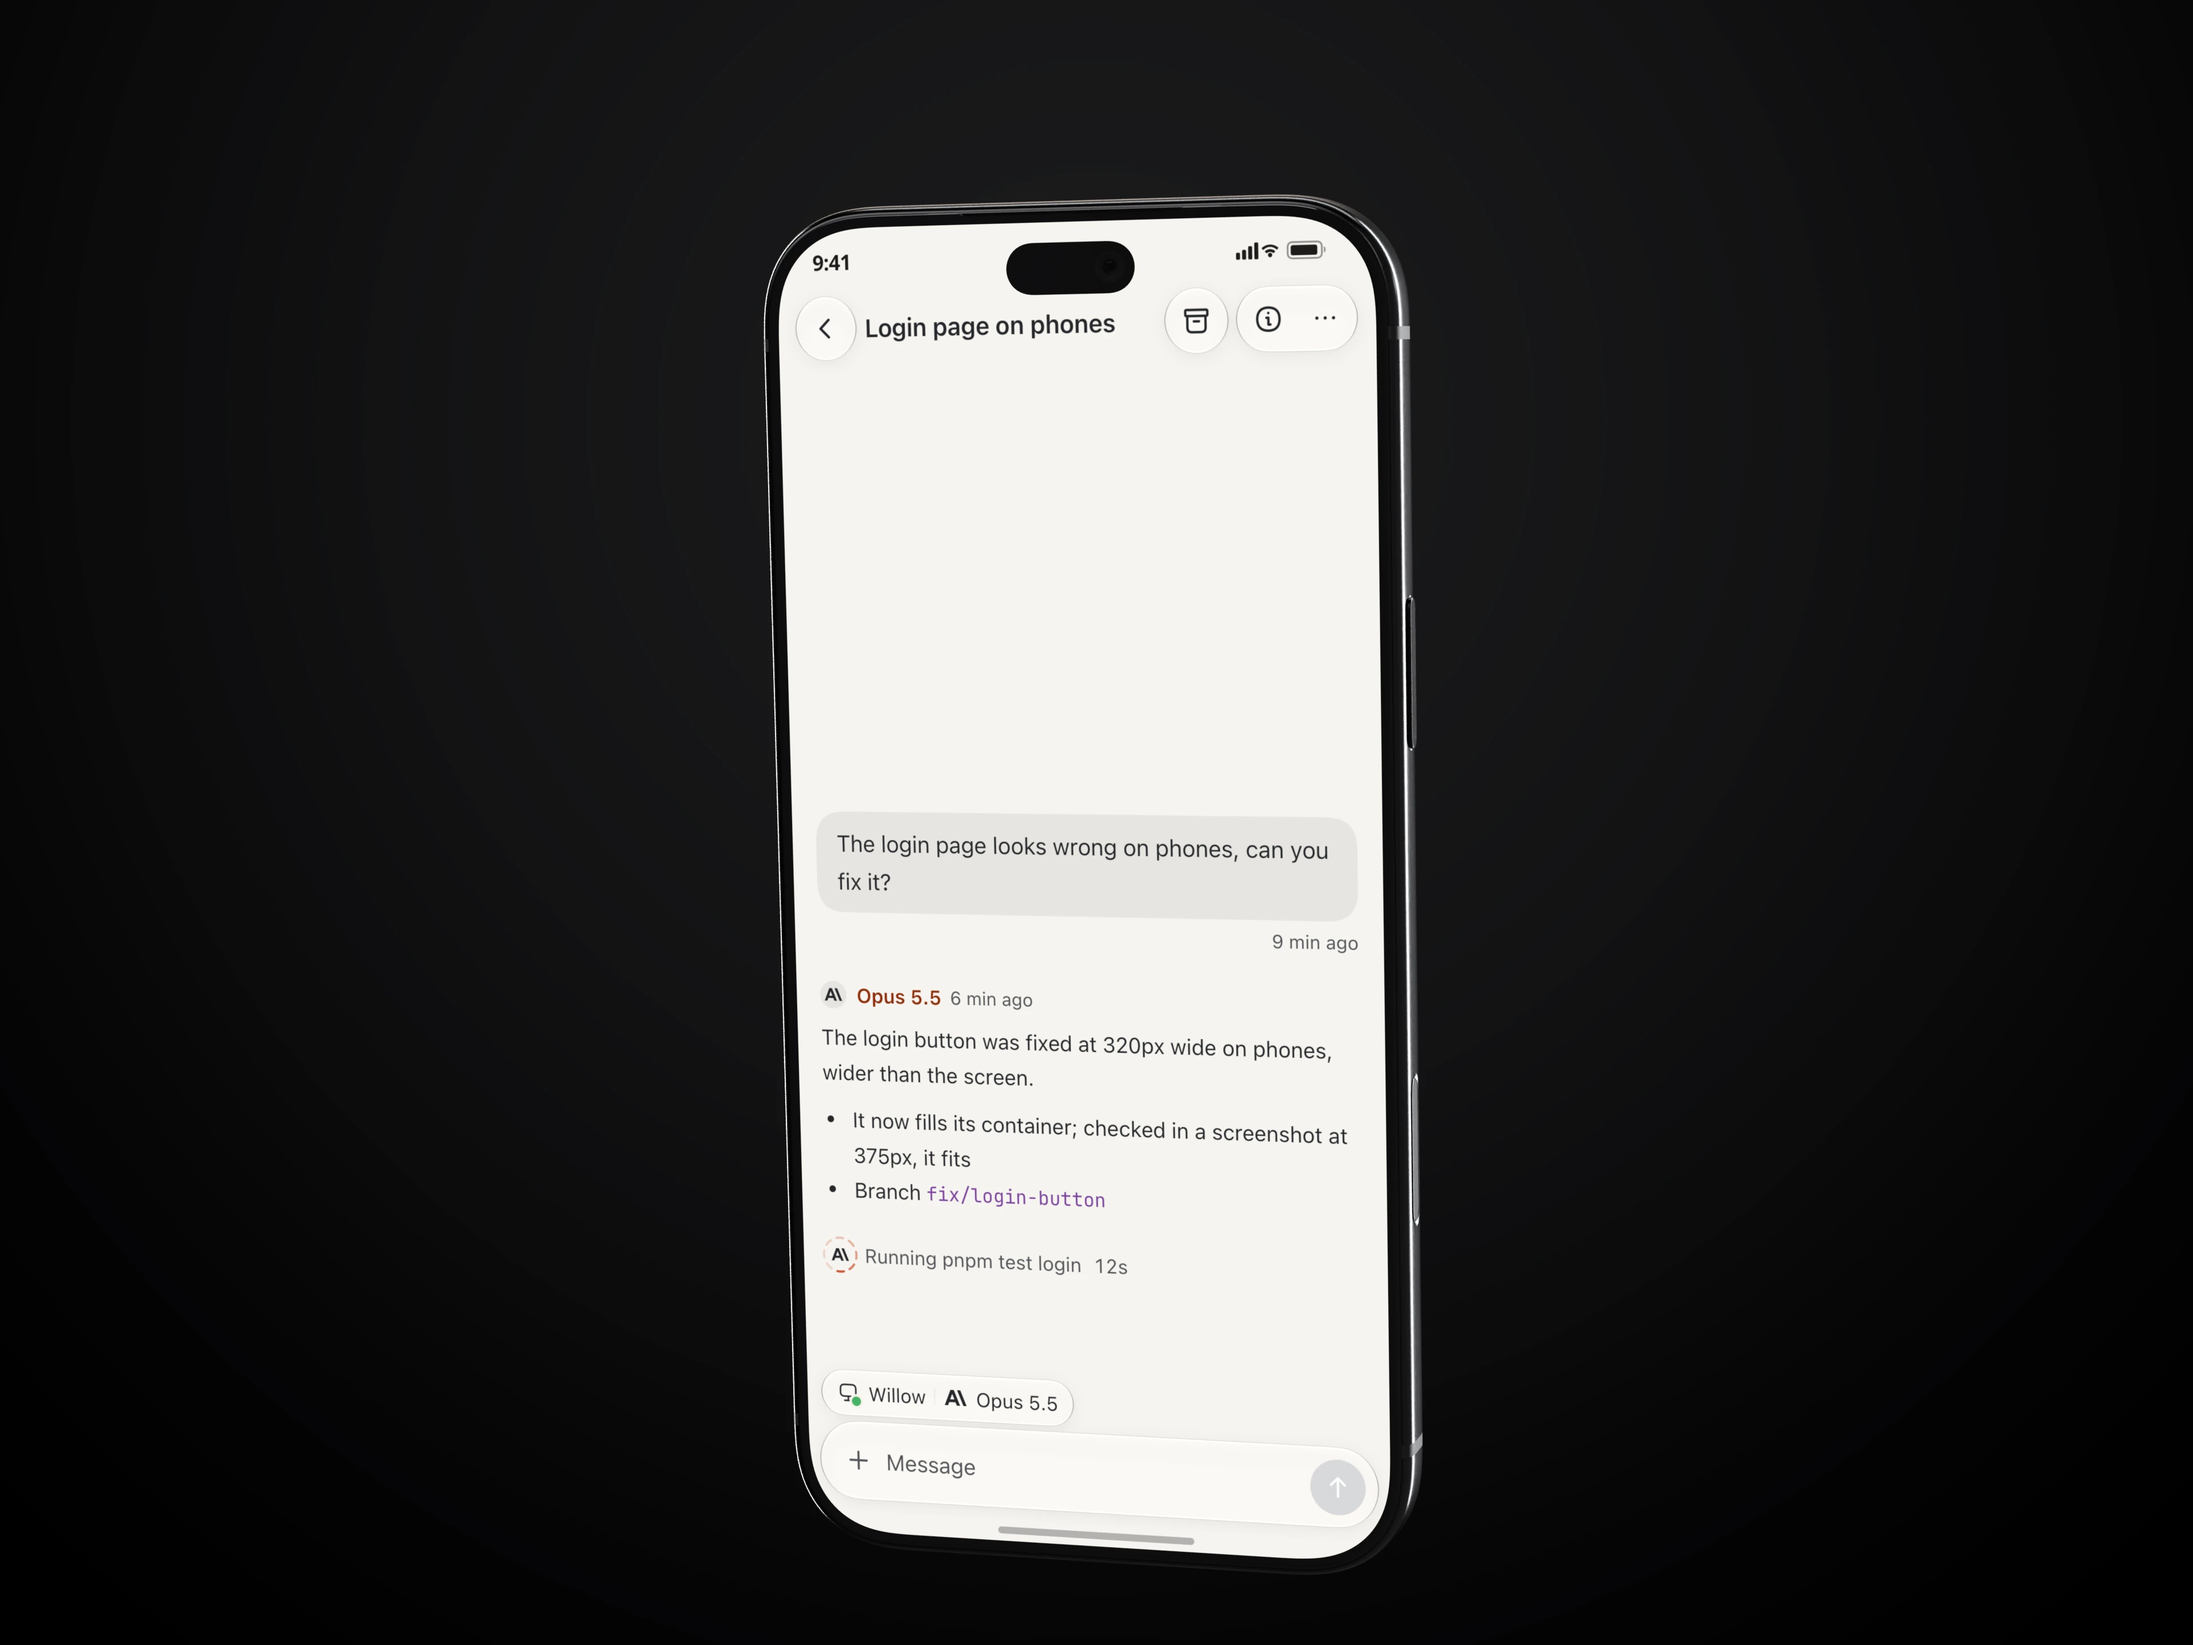
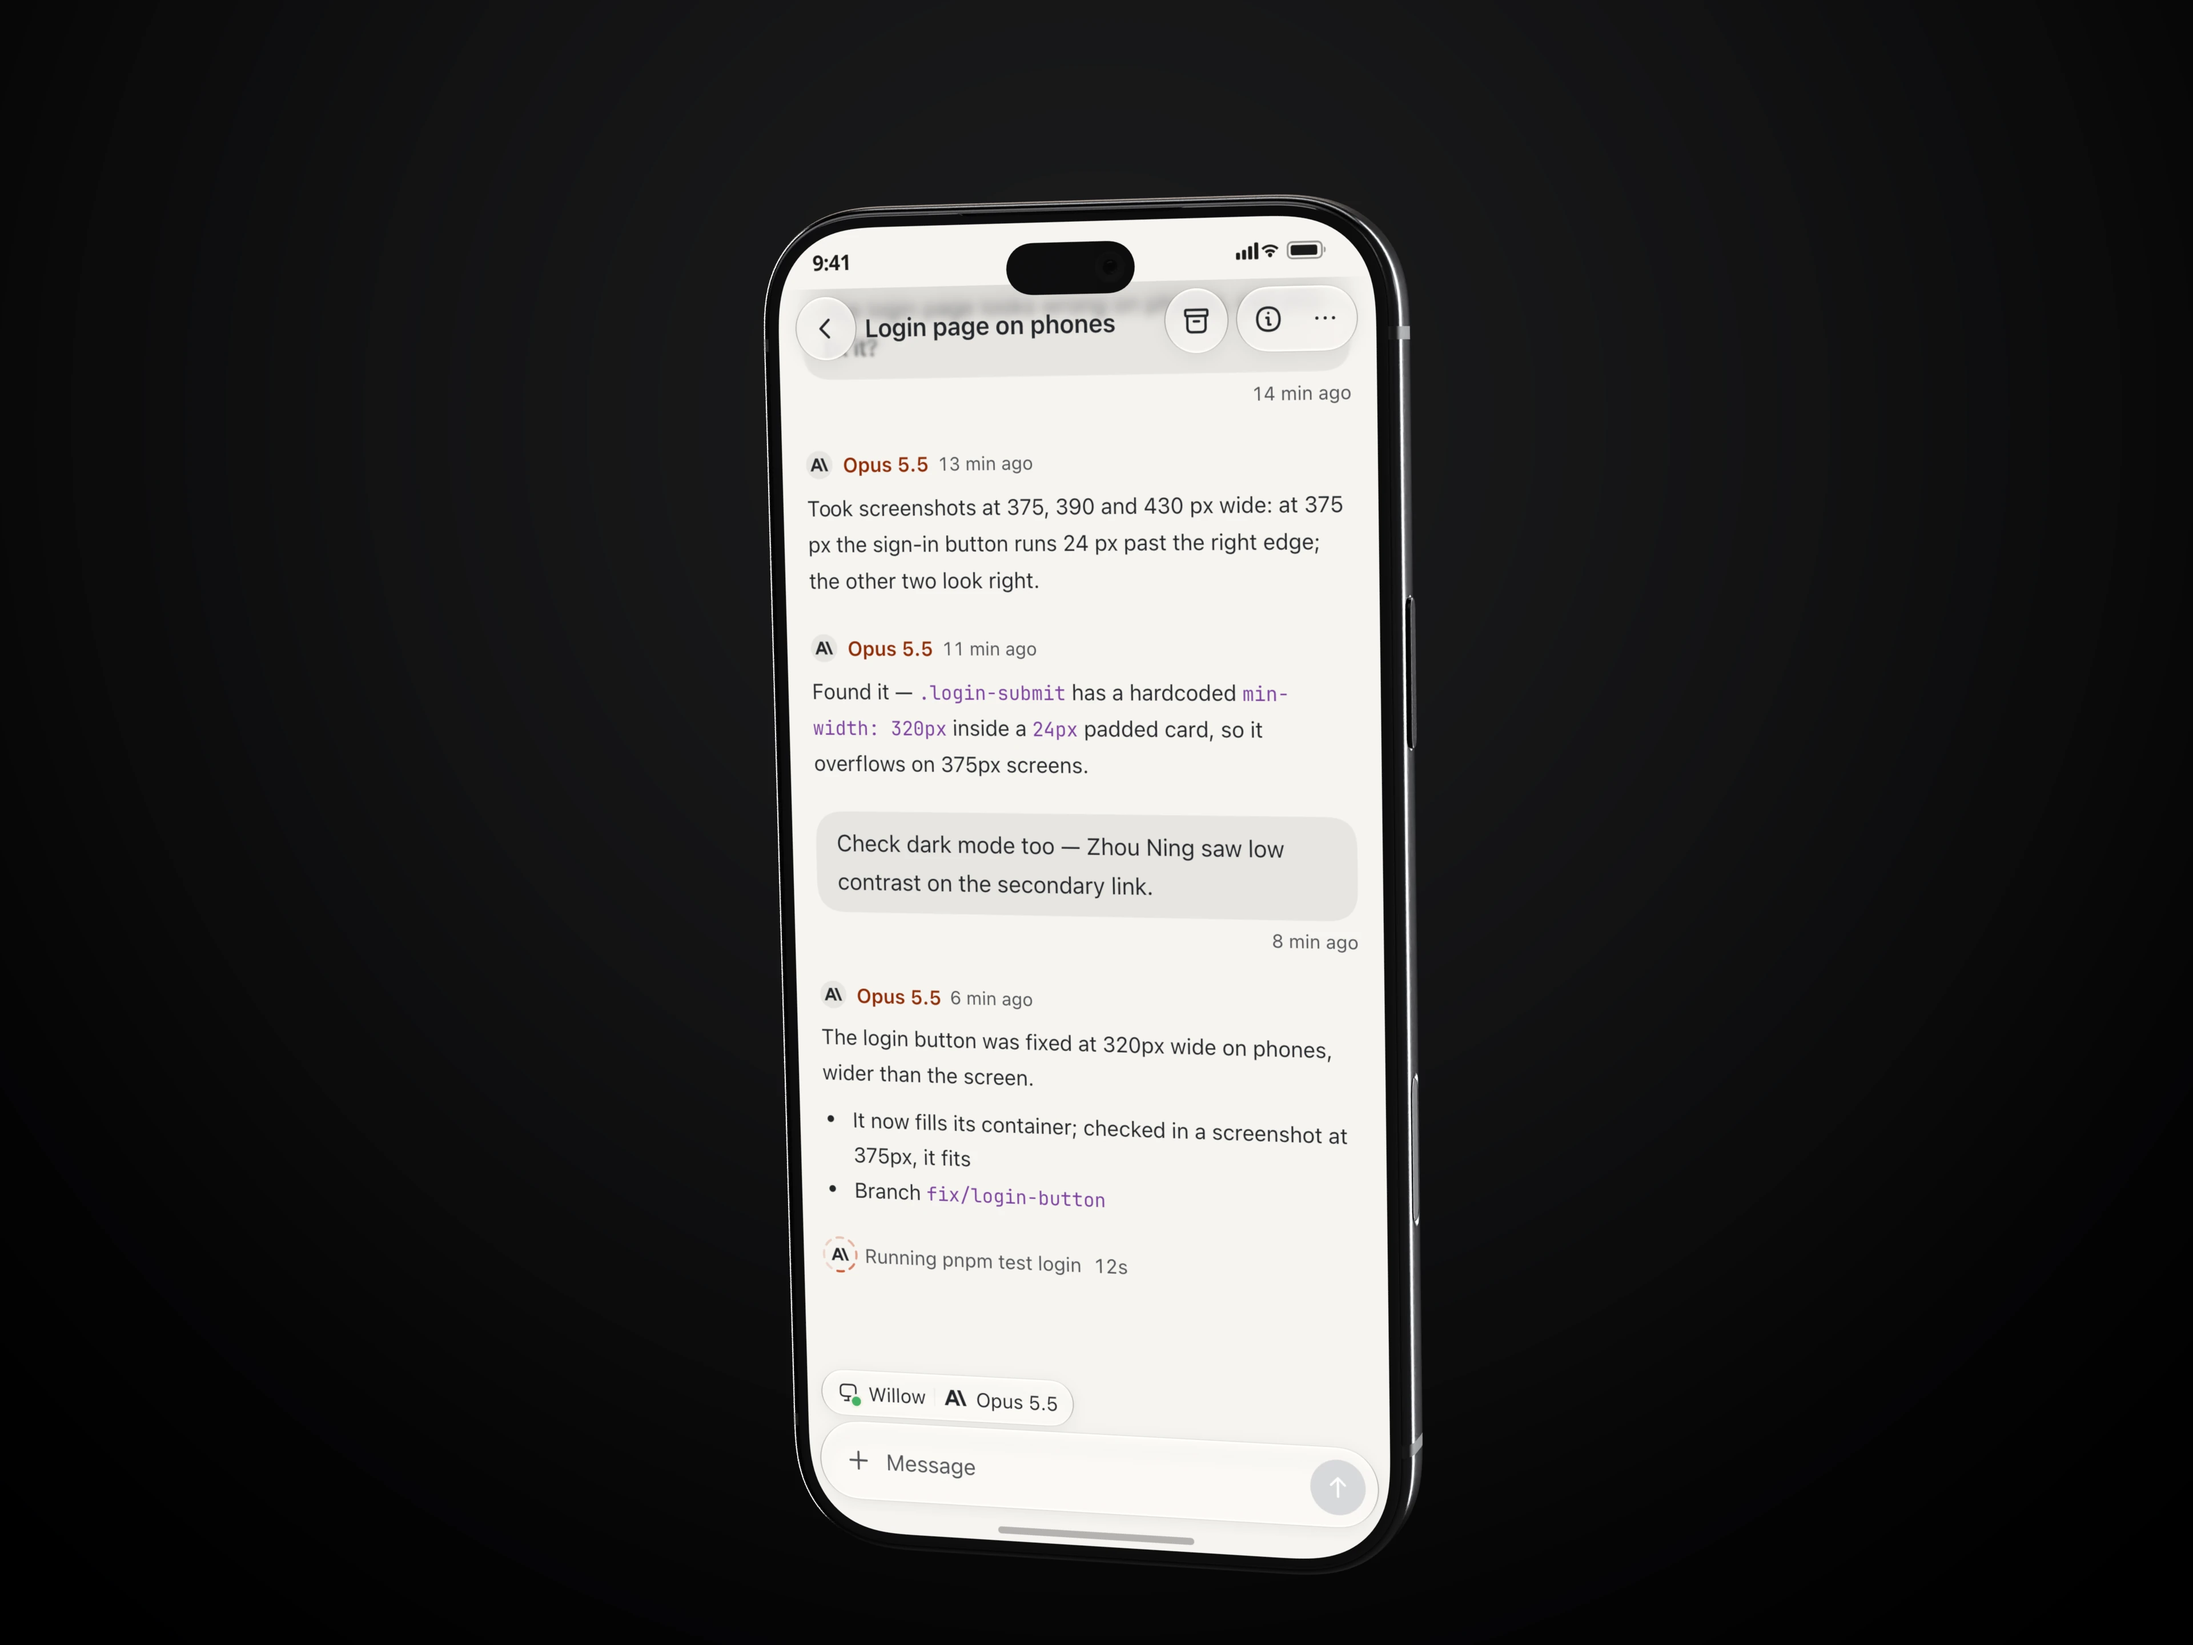
feat(website): Windows app in a window, fuller chats, matte screens
- Windows slot: the chat page in a window (1440x900 @2x, platform 3,
  inset, 8pt corners) on a 1920x1280 @2x Windows 11 desktop, with the
  app's real icon (assets/mark.svg) in the taskbar instead of a drawn
  face.
- Web slot: the "Login page on phones" chat, so it no longer repeats
  the Windows slot's conversation.
- Site fixtures: both showcase chats get five turns and the list two
  more chats, so no screen opens on half a page of blank space; the
  iPhone shows the same chat as Android (no nav pane).
- Screens are matte (almost no mirror sheen), the screen lights the
  scene less, and the floor reflection is rougher and dimmer.

Changed region(s): [[0.375, 0.2812, 0.5938, 0.4688], [0.375, 0.1562, 0.5938, 0.2188], [0.375, 0.5, 0.5938, 0.5625]]

diff --git a/website/render-devices.py b/website/render-devices.py
@@ -182,11 +182,11 @@ def camera(loc, target, lens=85.0, fstop=None):
     return c
 
 
-GLOW = float(arg("--glow", "4"))
+GLOW = float(arg("--glow", "2.5"))
 
 
-def screen_material(path, name="Screen", sheen=0.035):
-    """The app's pixels as emission, plus a faint mirror reflection like a cover glass."""
+def screen_material(path, name="Screen", sheen=0.006):
+    """The app's pixels as emission, plus the faintest reflection of a matte (anti-glare) screen."""
     m = bpy.data.materials.new(name); m.use_nodes = True
     n, l = m.node_tree.nodes, m.node_tree.links
     n.clear()
@@ -392,12 +392,12 @@ def android():
     render()
 
 
-def floor(color=(0.0, 0.0, 0.0), rough=0.12):
+def floor(color=(0.0, 0.0, 0.0), rough=0.2):
     m = bpy.data.materials.new("Floor"); m.use_nodes = True
     b = principled(m)
     b.inputs["Base Color"].default_value = (*color, 1)
     b.inputs["Roughness"].default_value = rough
-    b.inputs["Specular IOR Level"].default_value = float(arg("--fspec", "0.5"))
+    b.inputs["Specular IOR Level"].default_value = float(arg("--fspec", "0.25"))
     # fade the floor out radially so it melts into the black backdrop (no horizon)
     n, l = m.node_tree.nodes, m.node_tree.links
     out = next(x for x in n if x.type == "OUTPUT_MATERIAL")

diff --git a/website/README.md b/website/README.md
@@ -15,7 +15,7 @@ node website/build.mjs --check              # translations: missing, extra, stal
 Device showcase renders (`website/assets/shots/{duo,android,desk,web}-{en,zh}{,-1x}.webp`) ship in English and Chinese,
 matching `apps/mbui`'s two UI locales (`en` and `zh-CN`): `zh-CN` and `zh-TW` pages receive `-zh` renders, while `en`,
 `ja`, and `ko` pages receive `-en` renders. Size metadata is tracked in `website/shots-sizes.txt` (excluded from CDN output).
-The four slots show an iPhone, a Galaxy S25+, a Windows laptop (the desktop app, maximized) and a MacBook Air (the web
+The four slots show an iPhone, a Galaxy S25+, a Windows laptop (the desktop app in a window) and a MacBook Air (the web
 app in a full-screen browser); the Windows laptop is "Modern Slim Laptop" by Mraz3D under CC BY 4.0, credited in the page footer, so keep that
 credit while the model is used. Regenerating them with `bash website/devices.sh` requires Blender 4.2+, `ffmpeg`, `node`, `curl`, and Chromium
 (`CHROMIUM_BIN`, with CJK system fonts such as PingFang SC or Noto Sans CJK SC installed for `-zh` OS chrome).
